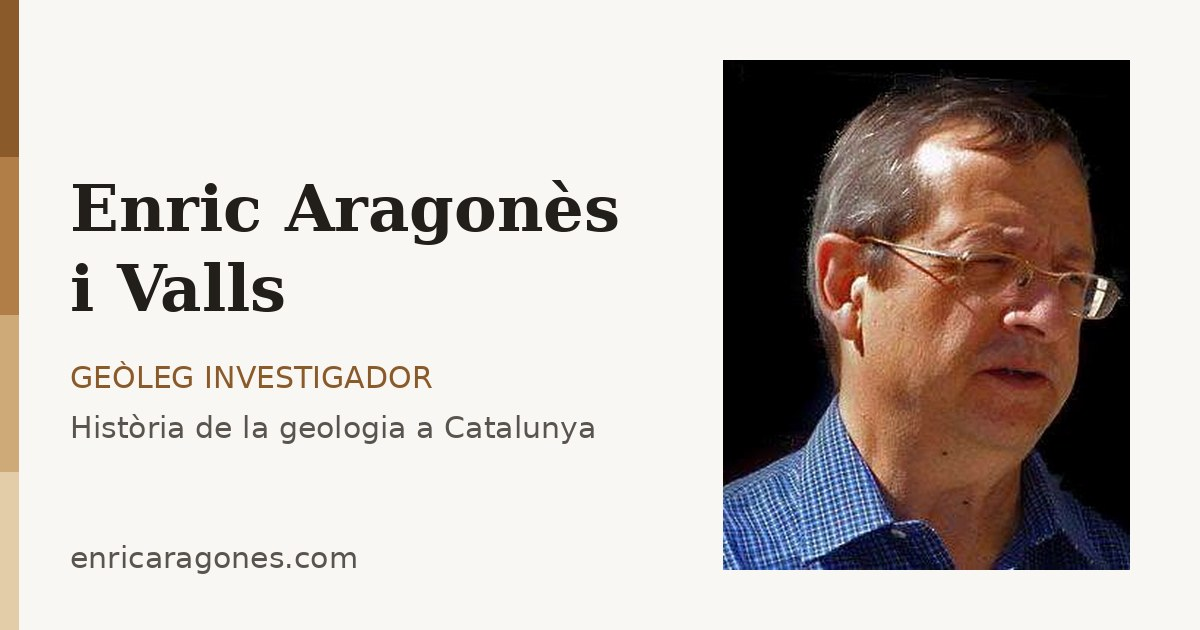
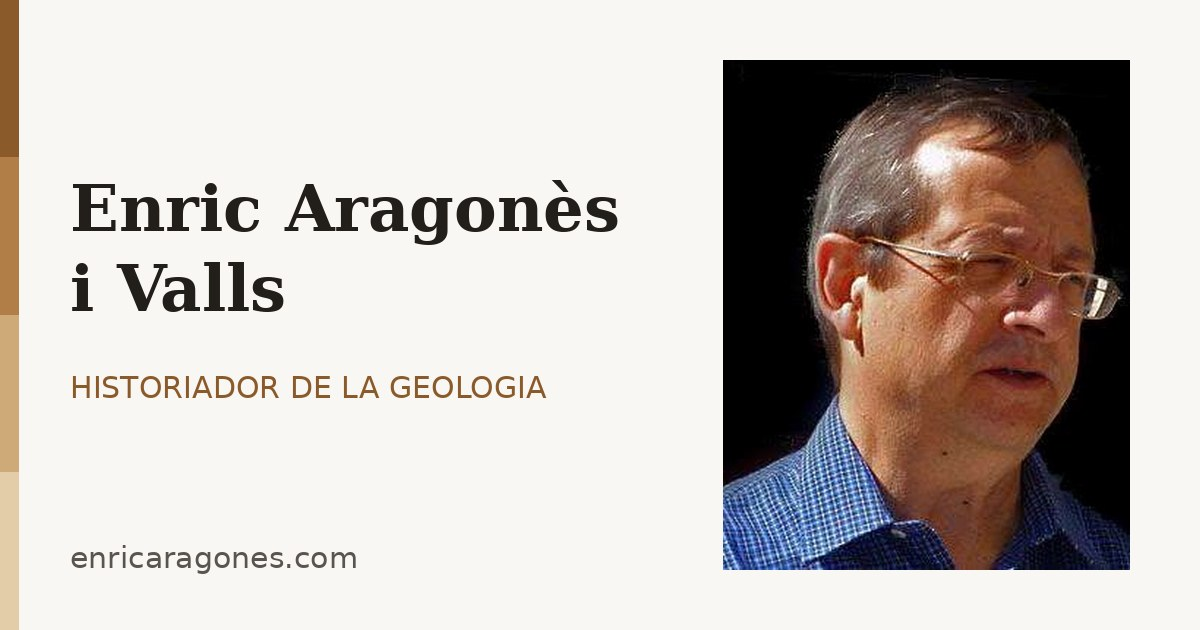
Portada: només «Historiador de la geologia»; xerrades passen a conferències (4 de noves); correccions de Podgorny, Font i Sagué, Astre i data dels 150 anys (#51)
Claude-Session: https://claude.ai/code/session_01Jk3k9Mp4QAqMiWacBEvUhr

Changed region(s): [[0.0617, 0.573, 0.4625, 0.6333], [0.0617, 0.6635, 0.4933, 0.6937]]

diff --git a/src/i18n/ui.ts b/src/i18n/ui.ts
@@ -9,7 +9,7 @@ export type Section = (typeof sections)[number];
 export const ui = {
   ca: {
     siteTitle: 'Enric Aragonès i Valls',
-    role: 'Geòleg investigador',
+    role: 'Historiador de la geologia',
     tagline: 'Recerca i obra geològica de tota una vida',
     nav: { biografia: 'Biografia', publicacions: 'Publicacions', divulgacio: 'Divulgació', premsa: 'Premsa', contacte: 'Contacte' },
     home: {
@@ -24,15 +24,15 @@ export const ui = {
     topics: { ambient: 'Medi ambient', historia: 'Història de la geologia', estratigrafia: 'Estratigrafia', hidrogeologia: 'Hidrogeologia', cartografia: 'Cartografia', regional: 'Geologia regional', patrimoni: 'Patrimoni i col·leccions' },
     bio: { p1: "Enric Aragonès i Valls (Tarragona, 1948), llicenciat en Ciències Geològiques per la Universitat de Barcelona, ha desenvolupat la major part de la seva vida laboral a la Generalitat de Catalunya, d’on es va jubilar reglamentàriament l’any 2011. Amb el temps s’ha especialitzat en la història de la geologia catalana, amb incursions en altres temes d’història natural com els recursos miners, les exploracions espeleològiques i les observacions de bòlids i aurores boreals. Com a col·laborador científic del Museu Geològic del Seminari de Barcelona, ha assumit la responsabilitat d’inventariar i endreçar els arxius documental i fotogràfic de la institució. Ha publicat tres monografies i una cinquantena d’articles en diverses revistes i actes. Des de l’any 2000 edita, en règim d’autoedició i difusió restringida, el periòdic semestral Notícies de Natura, que ha assolit el número 52.", title: 'Biografia', timeline: 'Trajectòria', links: 'Enllaços i perfils', research: "Línies de recerca", researchItems: ["Primers naturalistes viatgers per Catalunya", "Descobriment i primers estudis de la regió volcànica", "Contribucions vuitcentistes a les geologies catalana i espanyola", "Història de la cartografia geològica de Catalunya anterior a la guerra civil (1869-1936)", "Patrimoni històric: arxius, exposicions, fòssils i mines (casos puntuals)", "Observacions precientífiques de fenòmens atmosfèrics (bòlids, meteorits i aurores boreals)"], allPubs: "Veure totes les publicacions" },
     contact: { title: 'Contacte', write: 'Podeu escriure a',  name: 'Nom', email: 'Correu electrònic', message: 'Missatge', send: 'Enviar' },
-    outreach: { intro: "Textos de divulgació que no són publicacions científiques: entrades de blog, xerrades i altres escrits d’Enric Aragonès.", blog: "Entrada de blog", read: "Llegir l’entrada", talk: "Xerrada", page: "Veure la pàgina", pdf: "Descarregar la presentació (PDF)", video: "Veure el vídeo" },
+    outreach: { intro: "Textos de divulgació que no són publicacions científiques: entrades de blog, conferències i altres escrits d’Enric Aragonès.", blog: "Entrada de blog", read: "Llegir l’entrada", talk: "Conferència", page: "Veure la pàgina", pdf: "Descarregar la presentació (PDF)", video: "Veure el vídeo" },
     press: { interview: 'Entrevista', mention: 'Menció', news: 'Notícia', read: 'Llegir l’entrevista', readNews: 'Veure la notícia', open: 'Veure l’article', article: 'Article' },
-    seo: {"home": "Enric Aragonès i Valls (Tarragona, 1948), geòleg i investigador de la història de la geologia a Catalunya: biografia, publicacions, divulgació i premsa.", "biografia": "Biografia, línies de recerca i trajectòria d’Enric Aragonès i Valls, geòleg i historiador de la geologia catalana, col·laborador científic del Museu Geològic del Seminari de Barcelona.", "publicacions": "Una setantena de treballs d’Enric Aragonès i Valls sobre història de la geologia i cartografia geològica de Catalunya: Lyell, Vidal, Faura, Gimbernat, meteorits i aurores, amb resums i enllaços.", "divulgacio": "Entrades de blog, xerrades i presentacions d’Enric Aragonès i Valls sobre la història de la geologia i el patrimoni geològic de Catalunya.", "premsa": "Entrevistes, notícies i mencions a la premsa sobre l’obra d’Enric Aragonès i Valls i la història de la geologia catalana.", "contacte": "Contacte amb Enric Aragonès i Valls, geòleg i investigador de la història de la geologia a Catalunya."},
+    seo: {"home": "Enric Aragonès i Valls (Tarragona, 1948), historiador de la geologia a Catalunya: biografia, publicacions, divulgació i premsa.", "biografia": "Biografia, línies de recerca i trajectòria d’Enric Aragonès i Valls, geòleg i historiador de la geologia catalana, col·laborador científic del Museu Geològic del Seminari de Barcelona.", "publicacions": "Una setantena de treballs d’Enric Aragonès i Valls sobre història de la geologia i cartografia geològica de Catalunya: Lyell, Vidal, Faura, Gimbernat, meteorits i aurores, amb resums i enllaços.", "divulgacio": "Entrades de blog, conferències i presentacions d’Enric Aragonès i Valls sobre la història de la geologia i el patrimoni geològic de Catalunya.", "premsa": "Entrevistes, notícies i mencions a la premsa sobre l’obra d’Enric Aragonès i Valls i la història de la geologia catalana.", "contacte": "Contacte amb Enric Aragonès i Valls, historiador de la geologia a Catalunya."},
     footer: 'Tots els drets reservats.',
     langLabel: 'Idioma',
   },
   es: {
     siteTitle: 'Enric Aragonès i Valls',
-    role: 'Geólogo investigador',
+    role: 'Historiador de la geología',
     tagline: 'Investigación y obra geológica de toda una vida',
     nav: { biografia: 'Biografía', publicacions: 'Publicaciones', divulgacio: 'Divulgación', premsa: 'Prensa', contacte: 'Contacto' },
     home: {
@@ -47,15 +47,15 @@ export const ui = {
     topics: { ambient: 'Medio ambiente', historia: 'Historia de la geología', estratigrafia: 'Estratigrafía', hidrogeologia: 'Hidrogeología', cartografia: 'Cartografía', regional: 'Geología regional', patrimoni: 'Patrimonio y colecciones' },
     bio: { p1: "Enric Aragonès i Valls (Tarragona, 1948), licenciado en Ciencias Geológicas por la Universidad de Barcelona, ha desarrollado la mayor parte de su vida laboral en la Generalitat de Catalunya, de la que se jubiló reglamentariamente en 2011. Con el tiempo se ha especializado en la historia de la geología catalana, con incursiones en otros temas de historia natural como los recursos mineros, las exploraciones espeleológicas y las observaciones de bólidos y auroras boreales. Como colaborador científico del Museu Geològic del Seminari de Barcelona, ha asumido la responsabilidad de inventariar y ordenar los archivos documental y fotográfico de la institución. Ha publicado tres monografías y una cincuentena de artículos en diversas revistas y actas. Desde el año 2000 edita, en régimen de autoedición y difusión restringida, el periódico semestral Notícies de Natura, que ha alcanzado el número 52.", title: 'Biografía', timeline: 'Trayectoria', links: 'Enlaces y perfiles', research: "Líneas de investigación", researchItems: ["Primeros naturalistas viajeros por Cataluña", "Descubrimiento y primeros estudios de la región volcánica", "Contribuciones decimonónicas a las geologías catalana y española", "Historia de la cartografía geológica de Cataluña anterior a la guerra civil (1869-1936)", "Patrimonio histórico: archivos, exposiciones, fósiles y minas (casos puntuales)", "Observaciones precientíficas de fenómenos atmosféricos (bólidos, meteoritos y auroras boreales)"], allPubs: "Ver todas las publicaciones" },
     contact: { title: 'Contacto', write: 'Puede escribir a',  name: 'Nombre', email: 'Correo electrónico', message: 'Mensaje', send: 'Enviar' },
-    outreach: { intro: "Textos de divulgación que no son publicaciones científicas: entradas de blog, charlas y otros escritos de Enric Aragonès.", blog: "Entrada de blog", read: "Leer la entrada", talk: "Charla", page: "Ver la página", pdf: "Descargar la presentación (PDF)", video: "Ver el vídeo" },
+    outreach: { intro: "Textos de divulgación que no son publicaciones científicas: entradas de blog, conferencias y otros escritos de Enric Aragonès.", blog: "Entrada de blog", read: "Leer la entrada", talk: "Conferencia", page: "Ver la página", pdf: "Descargar la presentación (PDF)", video: "Ver el vídeo" },
     press: { interview: 'Entrevista', mention: 'Mención', news: 'Noticia', read: 'Leer la entrevista', readNews: 'Ver la noticia', open: 'Ver el artículo', article: 'Artículo' },
-    seo: {"home": "Enric Aragonès i Valls (Tarragona, 1948), geólogo e investigador de la historia de la geología en Cataluña: biografía, publicaciones, divulgación y prensa.", "biografia": "Biografía, líneas de investigación y trayectoria de Enric Aragonès i Valls, geólogo e historiador de la geología catalana, colaborador científico del Museu Geològic del Seminari de Barcelona.", "publicacions": "Unos setenta trabajos de Enric Aragonès i Valls sobre historia de la geología y cartografía geológica de Cataluña: Lyell, Vidal, Faura, Gimbernat, meteoritos y auroras, con resúmenes y enlaces.", "divulgacio": "Entradas de blog, charlas y presentaciones de Enric Aragonès i Valls sobre la historia de la geología y el patrimonio geológico de Cataluña.", "premsa": "Entrevistas, noticias y menciones en la prensa sobre la obra de Enric Aragonès i Valls y la historia de la geología catalana.", "contacte": "Contacto con Enric Aragonès i Valls, geólogo e investigador de la historia de la geología en Cataluña."},
+    seo: {"home": "Enric Aragonès i Valls (Tarragona, 1948), historiador de la geología en Cataluña: biografía, publicaciones, divulgación y prensa.", "biografia": "Biografía, líneas de investigación y trayectoria de Enric Aragonès i Valls, geólogo e historiador de la geología catalana, colaborador científico del Museu Geològic del Seminari de Barcelona.", "publicacions": "Unos setenta trabajos de Enric Aragonès i Valls sobre historia de la geología y cartografía geológica de Cataluña: Lyell, Vidal, Faura, Gimbernat, meteoritos y auroras, con resúmenes y enlaces.", "divulgacio": "Entradas de blog, conferencias y presentaciones de Enric Aragonès i Valls sobre la historia de la geología y el patrimonio geológico de Cataluña.", "premsa": "Entrevistas, noticias y menciones en la prensa sobre la obra de Enric Aragonès i Valls y la historia de la geología catalana.", "contacte": "Contacto con Enric Aragonès i Valls, historiador de la geología en Cataluña."},
     footer: 'Todos los derechos reservados.',
     langLabel: 'Idioma',
   },
   en: {
     siteTitle: 'Enric Aragonès i Valls',
-    role: 'Research geologist',
+    role: 'Historian of geology',
     tagline: 'A lifetime of geological research',
     nav: { biografia: 'Biography', publicacions: 'Publications', divulgacio: 'Outreach', premsa: 'Press', contacte: 'Contact' },
     home: {
@@ -70,15 +70,15 @@ export const ui = {
     topics: { ambient: 'Environment', historia: 'History of geology', estratigrafia: 'Stratigraphy', hidrogeologia: 'Hydrogeology', cartografia: 'Cartography', regional: 'Regional geology', patrimoni: 'Heritage and collections' },
     bio: { p1: "Enric Aragonès i Valls (born in Tarragona, 1948), who graduated in Geological Sciences from the University of Barcelona, spent most of his working life with the Generalitat de Catalunya, from which he retired in 2011. Over time he has specialised in the history of Catalan geology, with forays into other natural-history subjects such as mineral resources, speleological explorations and observations of fireballs and auroras. As a scientific collaborator of the Museu Geològic del Seminari de Barcelona, he has taken on the task of inventorying and organising the institution’s documentary and photographic archives. He has published three monographs and some fifty articles in various journals and proceedings. Since 2000 he has edited, self-published and with restricted distribution, the biannual periodical Notícies de Natura, which has reached issue number 52.", title: 'Biography', timeline: 'Career', links: 'Links and profiles', research: "Research areas", researchItems: ["The first travelling naturalists in Catalonia", "Discovery and first studies of the volcanic region", "Nineteenth-century contributions to Catalan and Spanish geology", "History of the geological mapping of Catalonia before the Civil War (1869-1936)", "Historical heritage: archives, exhibitions, fossils and mines (selected cases)", "Pre-scientific observations of atmospheric phenomena (fireballs, meteorites and auroras)"], allPubs: "See all publications" },
     contact: { title: 'Contact', write: 'You can write to',  name: 'Name', email: 'Email', message: 'Message', send: 'Send' },
-    outreach: { intro: "Popular writing that is not scientific publication: blog posts, talks and other pieces by Enric Aragonès.", blog: "Blog post", read: "Read the post", talk: "Talk", page: "View the page", pdf: "Download the presentation (PDF)", video: "Watch the video" },
+    outreach: { intro: "Popular writing that is not scientific publication: blog posts, lectures and other pieces by Enric Aragonès.", blog: "Blog post", read: "Read the post", talk: "Lecture", page: "View the page", pdf: "Download the presentation (PDF)", video: "Watch the video" },
     press: { interview: 'Interview', mention: 'Mention', news: 'News', read: 'Read the interview', readNews: 'View the news item', open: 'View the article', article: 'Article' },
-    seo: {"home": "Enric Aragonès i Valls (born in Tarragona, 1948), geologist and researcher of the history of geology in Catalonia: biography, publications, outreach and press.", "biografia": "Biography, research areas and career of Enric Aragonès i Valls, geologist and historian of Catalan geology, scientific collaborator of the Museu Geològic del Seminari de Barcelona.", "publicacions": "Around 70 works by Enric Aragonès i Valls on the history of geology and geological mapping in Catalonia: Lyell, Vidal, Faura, Gimbernat, meteorites and auroras, with abstracts and links.", "divulgacio": "Blog posts, talks and presentations by Enric Aragonès i Valls on the history of geology and the geological heritage of Catalonia.", "premsa": "Interviews, news and press mentions about the work of Enric Aragonès i Valls and the history of Catalan geology.", "contacte": "Contact Enric Aragonès i Valls, geologist and researcher of the history of geology in Catalonia."},
+    seo: {"home": "Enric Aragonès i Valls (born in Tarragona, 1948), historian of geology in Catalonia: biography, publications, outreach and press.", "biografia": "Biography, research areas and career of Enric Aragonès i Valls, geologist and historian of Catalan geology, scientific collaborator of the Museu Geològic del Seminari de Barcelona.", "publicacions": "Around 70 works by Enric Aragonès i Valls on the history of geology and geological mapping in Catalonia: Lyell, Vidal, Faura, Gimbernat, meteorites and auroras, with abstracts and links.", "divulgacio": "Blog posts, lectures and presentations by Enric Aragonès i Valls on the history of geology and the geological heritage of Catalonia.", "premsa": "Interviews, news and press mentions about the work of Enric Aragonès i Valls and the history of Catalan geology.", "contacte": "Contact Enric Aragonès i Valls, historian of geology in Catalonia."},
     footer: 'All rights reserved.',
     langLabel: 'Language',
   },
   fr: {
     siteTitle: 'Enric Aragonès i Valls',
-    role: 'Géologue chercheur',
+    role: 'Historien de la géologie',
     tagline: 'Une vie de recherche géologique',
     nav: { biografia: 'Biographie', publicacions: 'Publications', divulgacio: 'Vulgarisation', premsa: 'Presse', contacte: 'Contact' },
     home: {
@@ -95,7 +95,7 @@ export const ui = {
     contact: { title: 'Contact', write: 'Vous pouvez écrire à', name: 'Nom', email: 'E-mail', message: 'Message', send: 'Envoyer' },
     outreach: { intro: "Textes de vulgarisation qui ne sont pas des publications scientifiques : articles de blog, conférences et autres écrits d’Enric Aragonès.", blog: "Article de blog", read: "Lire l’article", talk: "Conférence", page: "Voir la page", pdf: "Télécharger la présentation (PDF)", video: "Voir la vidéo" },
     press: { interview: 'Entretien', mention: 'Mention', news: 'Actualité', read: 'Lire l’entretien', readNews: 'Voir l’actualité', open: 'Voir l’article', article: 'Article' },
-    seo: {"home": "Enric Aragonès i Valls (né à Tarragone en 1948), géologue et chercheur en histoire de la géologie en Catalogne : biographie, publications, vulgarisation et presse.", "biografia": "Biographie, axes de recherche et parcours d’Enric Aragonès i Valls, géologue et historien de la géologie catalane, collaborateur scientifique du Musée géologique du Séminaire de Barcelone.", "publicacions": "Environ 70 travaux d’Enric Aragonès i Valls sur l’histoire de la géologie et la cartographie géologique de la Catalogne : Lyell, Vidal, Faura, Gimbernat, météorites et aurores, avec résumés et liens.", "divulgacio": "Articles de blog, conférences et présentations d’Enric Aragonès i Valls sur l’histoire de la géologie et le patrimoine géologique de la Catalogne.", "premsa": "Entretiens, actualités et mentions dans la presse sur l’œuvre d’Enric Aragonès i Valls et l’histoire de la géologie catalane.", "contacte": "Contact avec Enric Aragonès i Valls, géologue et chercheur en histoire de la géologie en Catalogne."},
+    seo: {"home": "Enric Aragonès i Valls (né à Tarragone en 1948), historien de la géologie en Catalogne : biographie, publications, vulgarisation et presse.", "biografia": "Biographie, axes de recherche et parcours d’Enric Aragonès i Valls, géologue et historien de la géologie catalane, collaborateur scientifique du Musée géologique du Séminaire de Barcelone.", "publicacions": "Environ 70 travaux d’Enric Aragonès i Valls sur l’histoire de la géologie et la cartographie géologique de la Catalogne : Lyell, Vidal, Faura, Gimbernat, météorites et aurores, avec résumés et liens.", "divulgacio": "Articles de blog, conférences et présentations d’Enric Aragonès i Valls sur l’histoire de la géologie et le patrimoine géologique de la Catalogne.", "premsa": "Entretiens, actualités et mentions dans la presse sur l’œuvre d’Enric Aragonès i Valls et l’histoire de la géologie catalane.", "contacte": "Contact avec Enric Aragonès i Valls, historien de la géologie en Catalogne."},
     footer: 'Tous droits réservés.',
     langLabel: 'Langue',
   },
